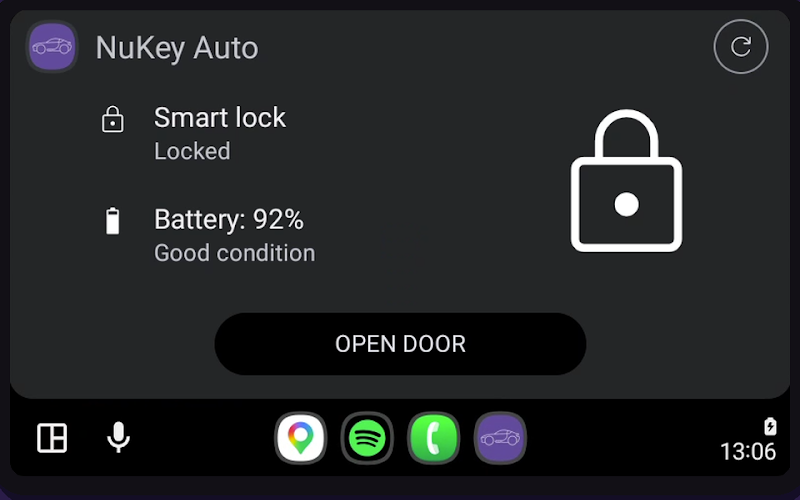
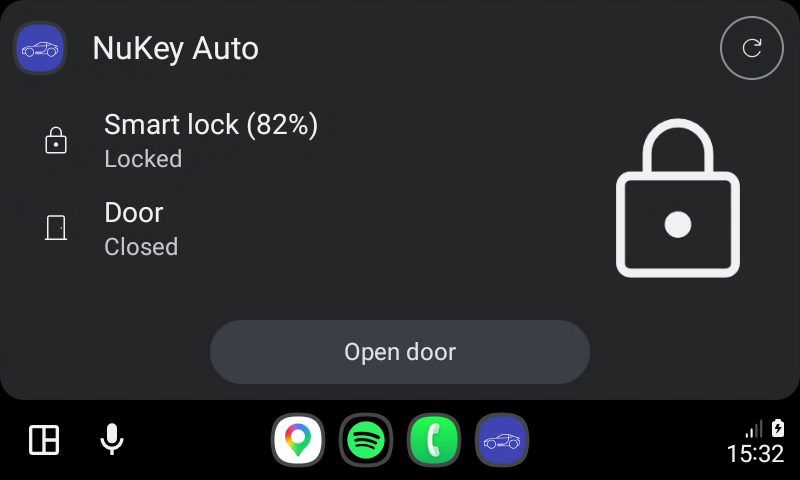
feat: website and Play Store images in the new brand
- Site colors indigo with an amber call to action, matching the app
- New phone and Android Auto screenshots from the demo (door sensor,
  message bar, 'Smart lock (82%)'); countdown shot replaced by the door hint
- Copy mentions the door sensor and the demo
- New site icon and social preview; play/ holds the 512 icon, feature
  graphic and full-size screenshots for the store listing

diff --git a/docs/index.html b/docs/index.html
@@ -16,7 +16,7 @@
     <script type="application/ld+json">{"@context": "https://schema.org", "@type": "MobileApplication", "name": "NuKey Auto", "operatingSystem": "Android 10+", "applicationCategory": "UtilitiesApplication", "description": "Control your Nuki smart lock directly from your car's Android Auto dashboard. Open or lock your door without touching your phone. Free, no ads, no tracking.", "url": "https://drkdw.github.io/NuKeyAuto/", "installUrl": "https://play.google.com/store/apps/details?id=com.ddw.nukeyauto", "author": {"@type": "Person", "name": "Dirk De Wever"}, "offers": {"@type": "Offer", "price": "0", "priceCurrency": "EUR"}}</script>
     <link rel="icon" type="image/png" href="assets/img/icon.png">
     <link rel="apple-touch-icon" href="assets/img/icon.png">
-    <meta name="theme-color" content="#16121F">
+    <meta name="theme-color" content="#12131A">
     <link rel="preconnect" href="https://fonts.googleapis.com">
     <link rel="preconnect" href="https://fonts.gstatic.com" crossorigin>
     <link href="https://fonts.googleapis.com/css2?family=Atkinson+Hyperlegible:wght@400;700&family=Poppins:wght@600&display=swap" rel="stylesheet">
@@ -49,12 +49,12 @@
         </div>
         <div class="dash">
             <div class="dash-screen">
-                <img id="dash-img" src="assets/img/auto-locked.png" width="800" height="500" alt="NuKey Auto in Android Auto showing the smart lock as locked, battery 92%, with an Open door button">
+                <img id="dash-img" src="assets/img/auto-locked.png" width="800" height="480" alt="NuKey Auto in Android Auto: smart lock locked at 82% battery, door closed, with an Open door button">
             </div>
             <div class="states" role="group" aria-label="Show lock state">
-                <button type="button" aria-pressed="true" data-src="assets/img/auto-locked.png" data-alt="NuKey Auto in Android Auto showing the smart lock as locked, battery 92%, with an Open door button">Locked</button>
+                <button type="button" aria-pressed="true" data-src="assets/img/auto-locked.png" data-alt="NuKey Auto in Android Auto: smart lock locked at 82% battery, door closed, with an Open door button">Locked</button>
                 <button type="button" aria-pressed="false" data-src="assets/img/auto-opening.png" data-alt="NuKey Auto in Android Auto while the lock is opening">Opening</button>
-                <button type="button" aria-pressed="false" data-src="assets/img/auto-door-open.png" data-alt="NuKey Auto in Android Auto showing the door open, with a Close door button">Door open</button>
+                <button type="button" aria-pressed="false" data-src="assets/img/auto-door-open.png" data-alt="NuKey Auto in Android Auto: lock unlocked, door open, with the hint to close the door before locking">Door open</button>
             </div>
         </div>
     </div>
@@ -68,8 +68,8 @@
         </div>
         <div class="features">
             <div><svg viewBox="0 0 24 24" aria-hidden="true"><path fill="currentColor" d="M5 11h4a2 2 0 0 0 2-2V5a2 2 0 0 0-2-2H5a2 2 0 0 0-2 2v4a2 2 0 0 0 2 2zm0 10h4a2 2 0 0 0 2-2v-4a2 2 0 0 0-2-2H5a2 2 0 0 0-2 2v4a2 2 0 0 0 2 2zm10 0h4a2 2 0 0 0 2-2v-4a2 2 0 0 0-2-2h-4a2 2 0 0 0-2 2v4a2 2 0 0 0 2 2zm0-18a2 2 0 0 0-2 2v4a2 2 0 0 0 2 2h4a2 2 0 0 0 2-2V5a2 2 0 0 0-2-2h-4z"/></svg><h3>Android Auto first</h3><p>Operate your smart lock from your car screen. Tap to open or lock your door while keeping your eyes on the road.</p></div>
-            <div><svg viewBox="0 0 24 24" aria-hidden="true"><path fill="currentColor" d="M12 1C8.676 1 6 3.676 6 7v3H5a2 2 0 0 0-2 2v8a2 2 0 0 0 2 2h14a2 2 0 0 0 2-2v-8a2 2 0 0 0-2-2h-1V7c0-3.324-2.676-6-6-6zm0 2c2.276 0 4 1.724 4 4v3H8V7c0-2.276 1.724-4 4-4zm0 10a2 2 0 1 1 0 4 2 2 0 0 1 0-4z"/></svg><h3>Safe by design</h3><p>Configurable confirmation dialogs and a cancellable countdown delay prevent accidental door openings. You stay in control.</p></div>
-            <div><svg viewBox="0 0 24 24" aria-hidden="true"><path fill="currentColor" d="M12 2C6.48 2 2 6.48 2 12s4.48 10 10 10 10-4.48 10-10S17.52 2 12 2zm-2 15l-5-5 1.41-1.41L10 14.17l7.59-7.59L19 8l-9 9z"/></svg><h3>Simple and fast</h3><p>See your lock status and battery at a glance. One tap to act. No clutter, no accounts, no subscriptions.</p></div>
+            <div><svg viewBox="0 0 24 24" aria-hidden="true"><path fill="currentColor" d="M12 1C8.676 1 6 3.676 6 7v3H5a2 2 0 0 0-2 2v8a2 2 0 0 0 2 2h14a2 2 0 0 0 2-2v-8a2 2 0 0 0-2-2h-1V7c0-3.324-2.676-6-6-6zm0 2c2.276 0 4 1.724 4 4v3H8V7c0-2.276 1.724-4 4-4zm0 10a2 2 0 1 1 0 4 2 2 0 0 1 0-4z"/></svg><h3>Safe by design</h3><p>Configurable confirmation dialogs and a cancellable countdown delay prevent accidental door openings. With a Nuki Door Sensor it tells you when the door is still open. You stay in control.</p></div>
+            <div><svg viewBox="0 0 24 24" aria-hidden="true"><path fill="currentColor" d="M12 2C6.48 2 2 6.48 2 12s4.48 10 10 10 10-4.48 10-10S17.52 2 12 2zm-2 15l-5-5 1.41-1.41L10 14.17l7.59-7.59L19 8l-9 9z"/></svg><h3>Simple and fast</h3><p>See your lock, door and battery at a glance. One tap to act. No clutter, no accounts, no subscriptions.</p></div>
         </div>
     </div>
 </section>
@@ -78,13 +78,13 @@
     <div class="wrap">
         <div class="section-head">
             <h2>Also on your phone</h2>
-            <p>The same controls work as a standalone phone app, with Material 3 and dynamic colors.</p>
+            <p>The same controls work as a standalone phone app, in light and dark, with your wallpaper colors if you like.</p>
         </div>
         <div class="phones">
-            <figure><img src="assets/img/phone-unlocked.png" width="478" height="1024" loading="lazy" alt="Phone app showing the lock unlocked with Open door and Lock door buttons"><figcaption>Lock state and battery at a glance</figcaption></figure>
-            <figure><img src="assets/img/phone-countdown.png" width="478" height="1024" loading="lazy" alt="Phone app counting down before opening the door"><figcaption>Cancellable countdown before opening</figcaption></figure>
-            <figure><img src="assets/img/phone-confirm.png" width="478" height="1024" loading="lazy" alt="Phone app asking to confirm opening the door"><figcaption>Optional confirmation</figcaption></figure>
-            <figure><img src="assets/img/phone-welcome.png" width="478" height="1024" loading="lazy" alt="Phone app welcome screen with a Get started button"><figcaption>Set up in a minute</figcaption></figure>
+            <figure><img src="assets/img/phone-unlocked.png" width="478" height="1062" loading="lazy" alt="Phone app showing the lock unlocked and the door closed, with Open door and Lock door buttons"><figcaption>Lock, door and battery at a glance</figcaption></figure>
+            <figure><img src="assets/img/phone-door-open.png" width="478" height="1062" loading="lazy" alt="Phone app with the door open and a hint to close the door before locking"><figcaption>Knows when the door is open (Nuki Door Sensor)</figcaption></figure>
+            <figure><img src="assets/img/phone-confirm.png" width="478" height="1062" loading="lazy" alt="Phone app asking to confirm opening the door"><figcaption>Optional confirmation</figcaption></figure>
+            <figure><img src="assets/img/phone-welcome.png" width="478" height="1062" loading="lazy" alt="Phone app welcome screen with a Get started button"><figcaption>Set up in a minute</figcaption></figure>
         </div>
     </div>
 </section>
@@ -97,7 +97,7 @@
         </div>
         <ol class="steps">
             <li><h3>Get your API token</h3><p>Create a token at web.nuki.io and copy your Smart Lock ID.</p></li>
-            <li><h3>Enter in Settings</h3><p>Open NuKey Auto, go to Settings, and paste your credentials.</p></li>
+            <li><h3>Enter in Settings</h3><p>Open NuKey Auto, go to Settings, and paste your credentials. Curious first? Tap "Try the demo" for a simulated lock.</p></li>
             <li><h3>Connect to your car</h3><p>Plug in your phone and NuKey Auto appears in Android Auto.</p></li>
             <li><h3>Tap to control</h3><p>Open or lock your door from your car screen.</p></li>
         </ol>

diff --git a/docs/assets/site.css b/docs/assets/site.css
@@ -1,16 +1,18 @@
-/* NuKey Auto site styles. Shared by index, support and privacy pages. */
+/* NuKey Auto site styles. Shared by index, support and privacy pages.
+   Brand: indigo #3A4AB8 with amber #F2A93B as the headlight accent (same as the app). */
 
 :root {
-    --violet: #62539A;
-    --lilac: #CFBCFF;
-    --night: #16121F;
-    --night-2: #221C30;
-    --ink: #241F33;
-    --muted: #5E5873;
-    --paper: #F7F5FB;
+    --brand: #3A4AB8;
+    --brand-light: #C2C8FF;
+    --amber: #F2A93B;
+    --night: #12131A;
+    --night-2: #1F2133;
+    --ink: #1B1B21;
+    --muted: #46464F;
+    --paper: #FBF8FF;
     --surface: #FFFFFF;
-    --line: #E3DDF0;
-    --link: #5B4A9E;
+    --line: #E3E1EC;
+    --link: #1E30A0;
     --radius-lg: 28px;
     --radius-sm: 12px;
     --wrap: 1120px;
@@ -20,12 +22,12 @@
 
 @media (prefers-color-scheme: dark) {
     :root {
-        --ink: #ECE7F7;
-        --muted: #B3ABC8;
-        --paper: #121019;
-        --surface: #1C1826;
-        --line: #2E2840;
-        --link: #CFBCFF;
+        --ink: #E3E1EB;
+        --muted: #C6C5D5;
+        --paper: #12131A;
+        --surface: #1B1B21;
+        --line: #34343C;
+        --link: #BCC3FF;
     }
 }
 
@@ -44,7 +46,7 @@ body {
 
 a { color: var(--link); }
 a:focus-visible, button:focus-visible, summary:focus-visible {
-    outline: 3px solid var(--lilac);
+    outline: 3px solid var(--brand-light);
     outline-offset: 3px;
     border-radius: 6px;
 }
@@ -103,8 +105,8 @@ code {
     white-space: nowrap;
 }
 .btn svg { width: 20px; height: 20px; flex: none; }
-.btn-primary { background: var(--lilac); color: #21183D; }
-.btn-primary:hover { background: #DCCEFF; }
+.btn-primary { background: var(--amber); color: #2A1800; }
+.btn-primary:hover { background: #FFB956; }
 .btn-outline { color: #fff; box-shadow: inset 0 0 0 1.5px rgba(255, 255, 255, 0.45); }
 .btn-outline:hover { box-shadow: inset 0 0 0 1.5px #fff; }
 .btn-small { padding: 8px 14px; font-size: 0.9rem; }
@@ -112,7 +114,7 @@ code {
 
 /* Hero: the car dashboard at night */
 .hero {
-    background: radial-gradient(120% 90% at 85% 10%, #3A2E5E 0%, var(--night-2) 45%, var(--night) 100%);
+    background: radial-gradient(120% 90% at 85% 10%, #2A3270 0%, var(--night-2) 45%, var(--night) 100%);
     color: #fff;
     padding: 72px 0 88px;
 }
@@ -133,7 +135,7 @@ code {
 .dash-screen {
     border-radius: var(--radius-lg);
     padding: 14px;
-    background: #0B0910;
+    background: #0D0E13;
     box-shadow: 0 0 0 1px rgba(255, 255, 255, 0.08), 0 30px 80px rgba(0, 0, 0, 0.55);
 }
 .dash-screen img { display: block; width: 100%; height: auto; border-radius: 16px; }
@@ -148,7 +150,7 @@ code {
     padding: 6px 14px;
     cursor: pointer;
 }
-.states button[aria-pressed="true"] { background: var(--lilac); border-color: var(--lilac); color: #21183D; }
+.states button[aria-pressed="true"] { background: var(--brand-light); border-color: var(--brand-light); color: #061D92; }
 
 /* Sections */
 .section { padding: 88px 0; }
@@ -168,7 +170,7 @@ code {
     height: auto;
     border-radius: 24px;
     background: var(--night);
-    box-shadow: 0 16px 40px rgba(22, 18, 31, 0.18);
+    box-shadow: 0 16px 40px rgba(18, 19, 26, 0.18);
 }
 .phones figcaption { margin-top: 12px; font-size: 0.95rem; color: var(--muted); }
 
@@ -176,8 +178,8 @@ code {
 .features { display: grid; grid-template-columns: repeat(3, minmax(0, 1fr)); gap: 40px; }
 .features h3 { margin-bottom: 8px; }
 .features p { color: var(--muted); }
-.features svg { width: 28px; height: 28px; color: var(--violet); margin-bottom: 14px; }
-@media (prefers-color-scheme: dark) { .features svg { color: var(--lilac); } }
+.features svg { width: 28px; height: 28px; color: var(--brand); margin-bottom: 14px; }
+@media (prefers-color-scheme: dark) { .features svg { color: var(--brand-light); } }
 
 /* Setup steps: a real sequence, so numbered */
 .steps { list-style: none; counter-reset: step; display: grid; grid-template-columns: repeat(4, minmax(0, 1fr)); gap: 32px; }
@@ -189,7 +191,7 @@ code {
     width: 40px;
     height: 40px;
     border-radius: 50%;
-    background: var(--violet);
+    background: var(--brand);
     color: #fff;
     font-family: var(--display);
     font-weight: 600;
@@ -204,8 +206,8 @@ code {
 .band .wrap { display: grid; grid-template-columns: minmax(0, 1fr) minmax(0, 1fr); gap: 48px; }
 .band h3 { font-size: 1.4rem; margin-bottom: 10px; }
 .band p { color: var(--muted); margin-bottom: 20px; max-width: 46ch; }
-.band .btn-primary { background: var(--violet); color: #fff; }
-.band .btn-primary:hover { background: #4F4282; }
+.band .btn-primary { background: var(--brand); color: #fff; }
+.band .btn-primary:hover { background: #1E30A0; }
 
 /* Footer */
 .footer { background: var(--night); color: rgba(255, 255, 255, 0.7); padding: 56px 0 40px; font-size: 0.95rem; }
@@ -227,7 +229,7 @@ code {
 .prose p + p { margin-top: 12px; }
 .prose .note { background: var(--surface); border: 1px solid var(--line); border-radius: var(--radius-sm); padding: 18px 20px; margin-bottom: 12px; }
 .prose ol { padding-left: 1.4em; display: grid; gap: 16px; }
-.prose ol li::marker { font-family: var(--display); font-weight: 600; color: var(--violet); }
+.prose ol li::marker { font-family: var(--display); font-weight: 600; color: var(--brand); }
 details { border-bottom: 1px solid var(--line); }
 details summary {
     cursor: pointer;
@@ -239,7 +241,7 @@ details summary {
 details[open] summary { color: var(--link); }
 details p { padding: 0 0 18px; color: var(--muted); }
 .contact { margin-top: 56px; }
-.contact .btn-primary { background: var(--violet); color: #fff; margin-top: 16px; }
+.contact .btn-primary { background: var(--brand); color: #fff; margin-top: 16px; }
 
 /* Responsive */
 @media (max-width: 900px) {

diff --git a/docs/privacy-policy.html b/docs/privacy-policy.html
@@ -15,7 +15,7 @@
     <meta property="og:image" content="https://drkdw.github.io/NuKeyAuto/assets/img/social-preview.png">
     <link rel="icon" type="image/png" href="assets/img/icon.png">
     <link rel="apple-touch-icon" href="assets/img/icon.png">
-    <meta name="theme-color" content="#16121F">
+    <meta name="theme-color" content="#12131A">
     <link rel="preconnect" href="https://fonts.googleapis.com">
     <link rel="preconnect" href="https://fonts.gstatic.com" crossorigin>
     <link href="https://fonts.googleapis.com/css2?family=Atkinson+Hyperlegible:wght@400;700&family=Poppins:wght@600&display=swap" rel="stylesheet">

diff --git a/docs/support.html b/docs/support.html
@@ -15,7 +15,7 @@
     <meta property="og:image" content="https://drkdw.github.io/NuKeyAuto/assets/img/social-preview.png">
     <link rel="icon" type="image/png" href="assets/img/icon.png">
     <link rel="apple-touch-icon" href="assets/img/icon.png">
-    <meta name="theme-color" content="#16121F">
+    <meta name="theme-color" content="#12131A">
     <link rel="preconnect" href="https://fonts.googleapis.com">
     <link rel="preconnect" href="https://fonts.gstatic.com" crossorigin>
     <link href="https://fonts.googleapis.com/css2?family=Atkinson+Hyperlegible:wght@400;700&family=Poppins:wght@600&display=swap" rel="stylesheet">

diff --git a/play/README.md b/play/README.md
@@ -1,0 +1,10 @@
+# Google Play listing assets
+
+Upload these in Play Console > Grow users > Store presence > Main store listing. Made from the demo mode (simulated lock), light theme, English.
+
+| File | Play Console field |
+| --- | --- |
+| `icon-512.png` | App icon (512 x 512, Play applies the mask) |
+| `feature-graphic.png` | Feature graphic (1024 x 500) |
+| `phone-*.png` | Phone screenshots (1080 x 2400) |
+| `auto-*.png` | Android Auto screenshots (800 x 480) |
